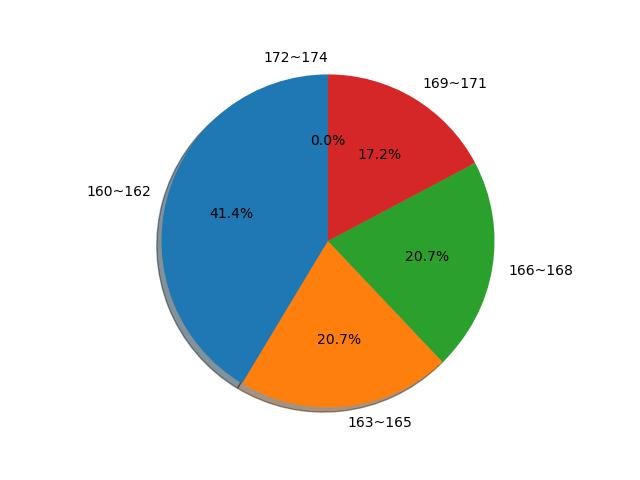
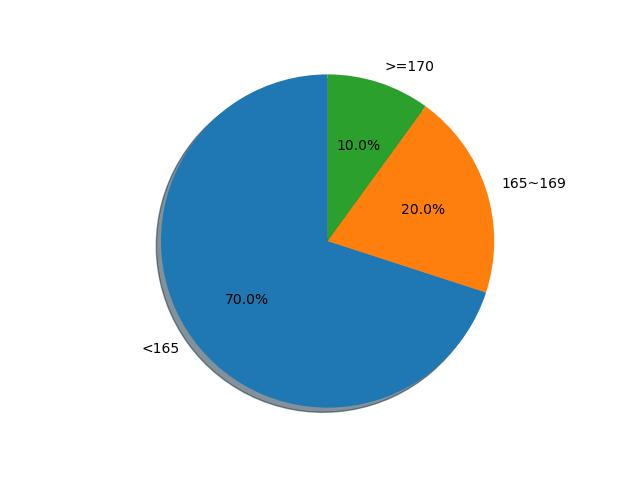
2

diff --git a/爬虫2.py b/爬虫2.py
@@ -1,4 +1,3 @@
-import random
 import json
 import requests
 from bs4 import BeautifulSoup
@@ -30,7 +29,7 @@ def crawl_wiki_data2():
     try:
         response = requests.get(url, headers=headers)
         # 将一段文档传入BeautifulSoup的构造方法,就能得到一个文档的对象, 可以传入一段字符串
-        soup = BeautifulSoup(response.text, 'lxml')
+        soup = BeautifulSoup(response.text, 'html.parser')
 
         # 返回所有的<table>所有标签
         tables = soup.find_all('table')
@@ -56,7 +55,7 @@ def parse_wiki_data(table_html):
     '''
     解析得到选手信息，包括包括选手姓名和选手个人百度百科页面链接，存JSON文件,保存到work目录下
     '''
-    bs = BeautifulSoup(str(table_html), 'lxml')
+    bs = BeautifulSoup(str(table_html), 'html.parser')
     all_trs = bs.find_all('tr')
 
     stars = []
@@ -106,7 +105,7 @@ def crawl_everyone_wiki_urls():
         # 向选手个人百度百科发送一个http get请求
         response = requests.get(link, headers=headers)
         # 将一段文档传入BeautifulSoup的构造方法,就能得到一个文档的对象
-        bs = BeautifulSoup(response.text, 'lxml')
+        bs = BeautifulSoup(response.text, 'html.parser')
         # 获取选手的民族、星座、血型、体重等信息
         base_info_div = bs.find('div', {'class': 'basic-info J-basic-info cmn-clearfix'})
         dls = base_info_div.find_all('dl')
@@ -140,7 +139,7 @@ def crawl_everyone_wiki_urls():
             pic_list_response = requests.get(pic_list_url, headers=headers)
 
             # 对选手图片列表页面进行解析，获取所有图片链接
-            bs = BeautifulSoup(pic_list_response.text, 'lxml')
+            bs = BeautifulSoup(pic_list_response.text, 'html.parser')
             pic_list_html = bs.select('.pic-list img ')
             pic_urls = []
             for pic_html in pic_list_html:
@@ -186,34 +185,34 @@ def draw():
 
     arrs = [x for x in arrs if not pd.isnull(x)]
     # pandas.cut用来把一组数据分割成离散的区间。比如有一组年龄数据，可以使用pandas.cut将年龄数据分割成不同的年龄段并打上标签。bins是被切割后的区间.
-    bin = [159, 162, 165, 168, 171, 174]
+    bin = [0,164,169,1000]
     se1 = pd.cut(arrs, bin)
-    print(se1)
+    #print(se1)
 
     # pandas的value_counts()函数可以对Series里面的每个值进行计数并且排序。
     pd.value_counts(se1)
 
     sizes = pd.value_counts(se1)
-    print(sizes)
-    labels = '160~162', '163~165', '166~168', '169~171', '172~174'
-    explode = (0.2, 0.1, 0, 0)
+    #print(sizes)
+    labels = '<165', '165~169', '>=170'
 
     fig1, ax1 = plt.subplots()
     ax1.pie(sizes, labels=labels, autopct='%1.1f%%',
             shadow=True, startangle=90)
     ax1.axis('equal')
-    plt.savefig('work/result/pie_result02.jpg')
+    plt.title('''《乘风破浪的姐姐》参赛嘉宾体重饼状图''',fontsize = 24)
+    plt.savefig('/home/aistudio/work/result/pie_result02.jpg')
     plt.show()
 
 
 if __name__ == '__main__':
     # 爬取百度百科中《乘风破浪的姐姐》中参赛选手信息，返回html
     htmls = crawl_wiki_data2()
-    print(htmls)
+    #print(htmls)
     # #解析html,得到第一季选手信息，保存为json文件
     parse_wiki_data(htmls[0])
     # #从每个选手的百度百科页面上爬取,并保存
-    crawl_everyone_wiki_urls()
+    #crawl_everyone_wiki_urls()
 
     print("所有信息爬取完成！")
 
